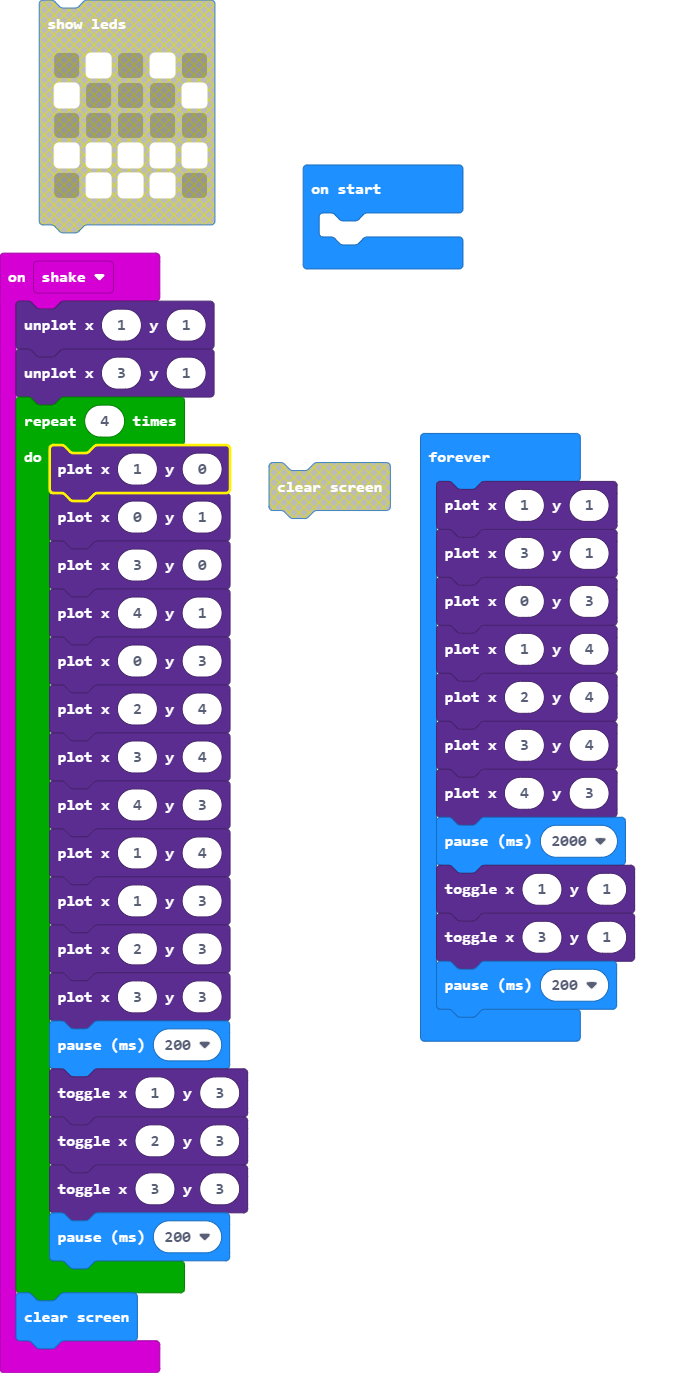
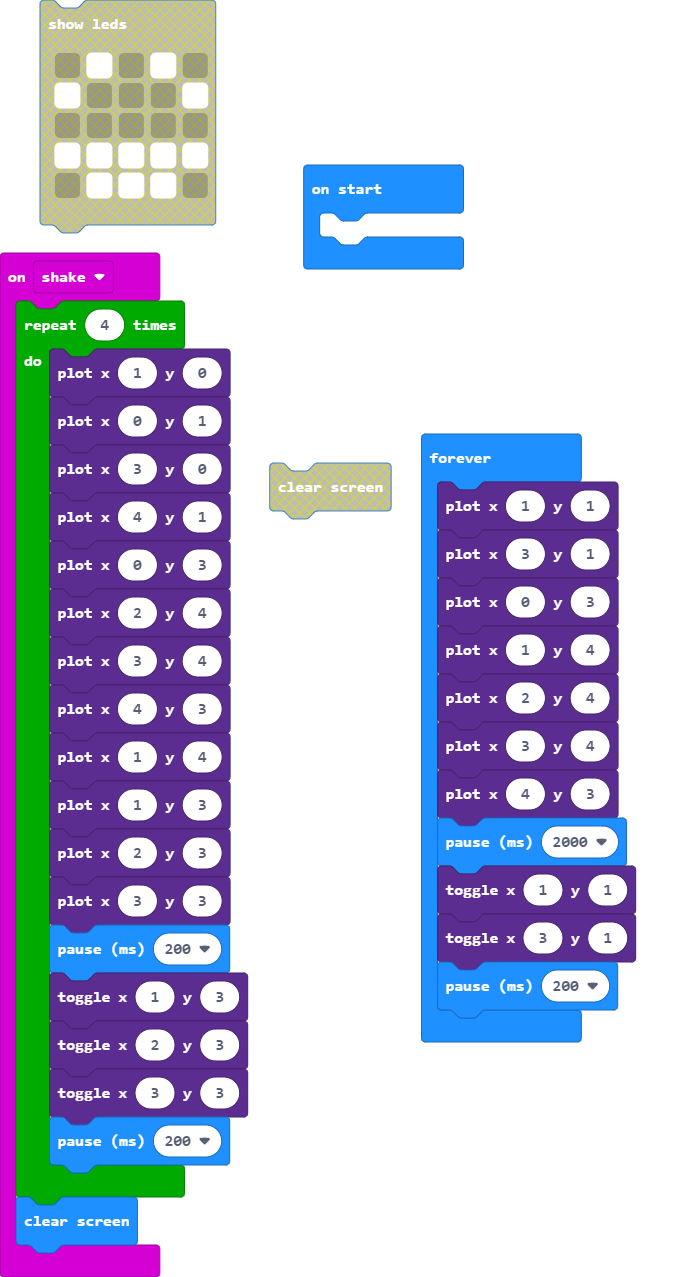
Update main.blocks, main.ts

diff --git a/main.ts b/main.ts
@@ -1,6 +1,4 @@
 input.onGesture(Gesture.Shake, function () {
-    led.unplot(1, 1)
-    led.unplot(3, 1)
     for (let index = 0; index < 4; index++) {
         led.plot(1, 0)
         led.plot(0, 1)
